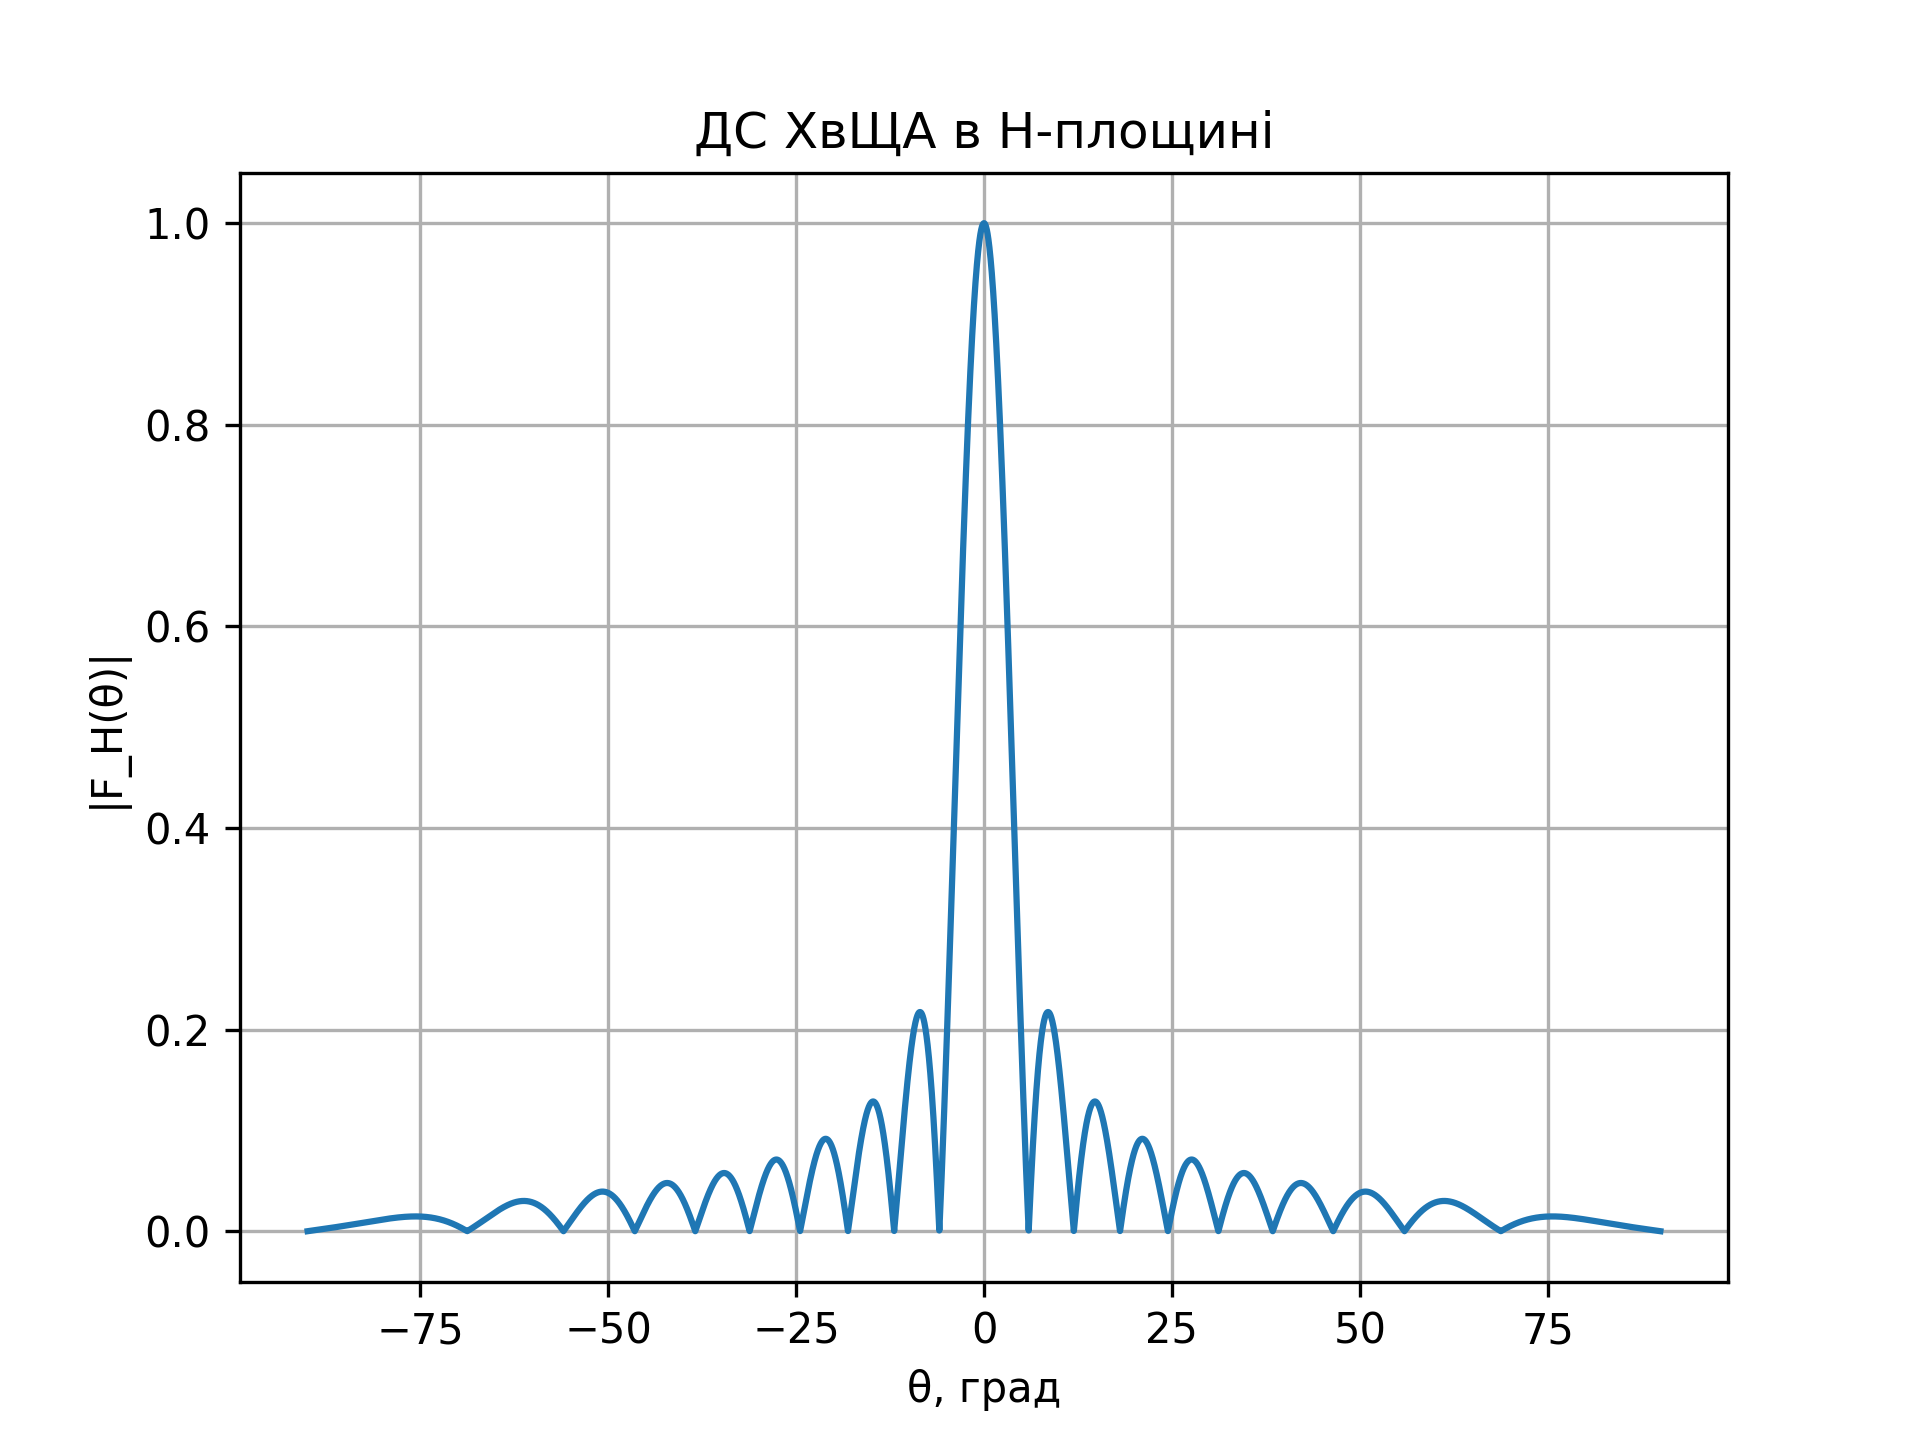
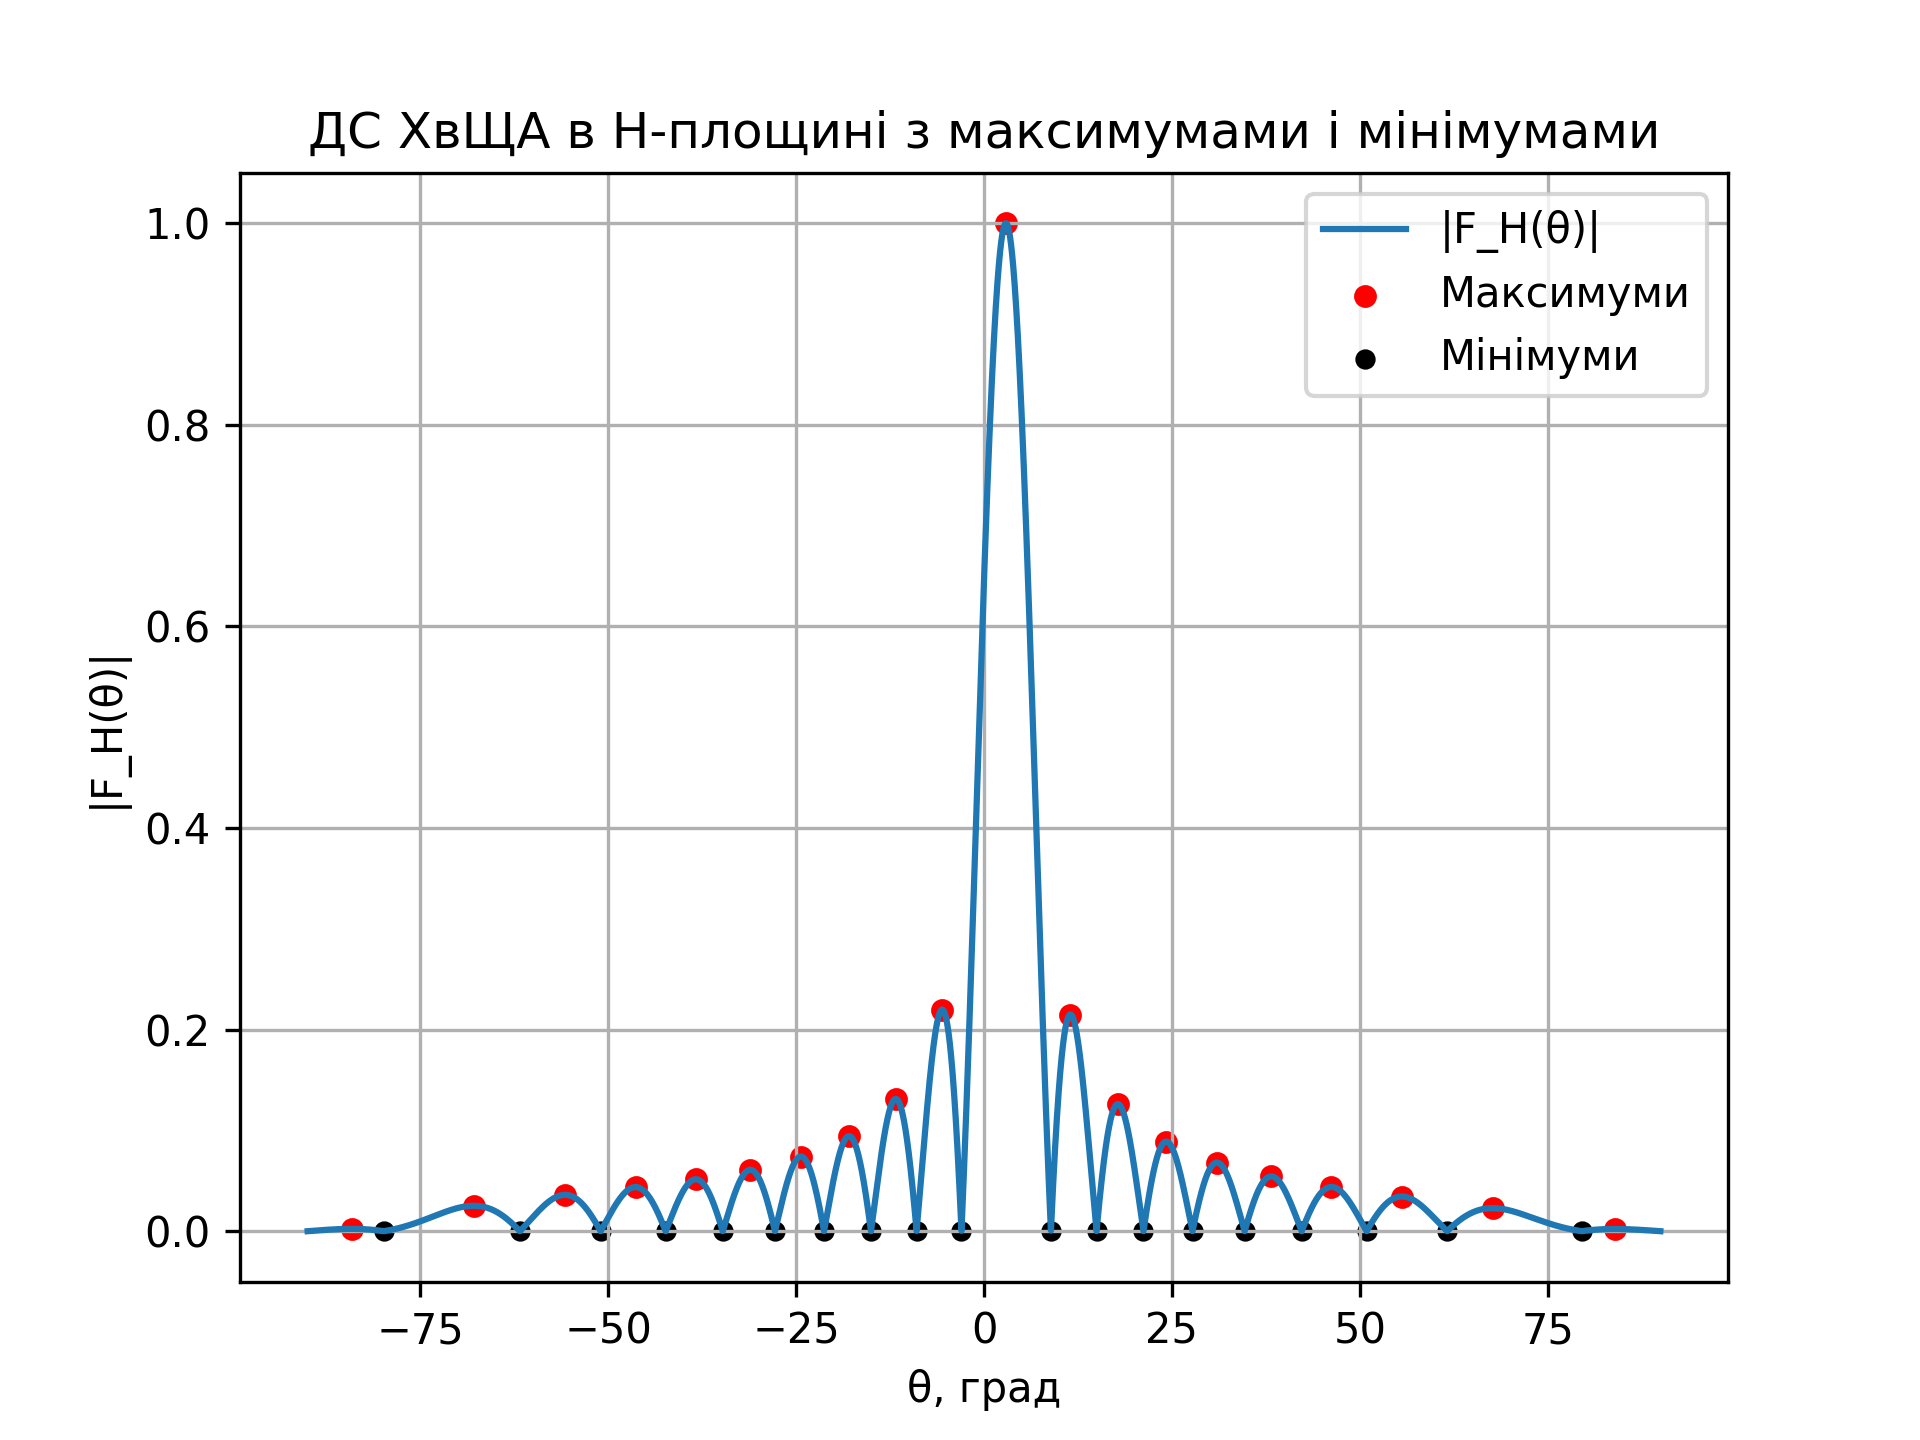
fix

diff --git a/Hv_antenna/Hv_antenna.py b/Hv_antenna/Hv_antenna.py
@@ -11,9 +11,9 @@ def element_pattern_H(theta):
     return F
 
 
-def array_factor_H(N, d, theta, lam):
+def array_factor_H(N, d, theta, lam, lambda_hv, nu):
     k = 2 * np.pi / lam
-    psi = k * d * np.sin(theta)
+    psi = k * d * np.sin(theta) - 2 * np.pi * d / lambda_hv + nu * np.pi
     den = np.sin(psi / 2)
     F = np.ones_like(theta, float)
     mask = np.abs(den) > 1e-6
@@ -57,6 +57,7 @@ def analyse_pattern(theta_deg, F_norm):
 
     HPBW = theta_right - theta_left
 
+    # поиск локальных максимумов для SLL
     loc_max = []
     for i in range(1, len(F_norm) - 1):
         if F_norm[i] > F_norm[i - 1] and F_norm[i] >= F_norm[i + 1]:
@@ -72,41 +73,74 @@ def analyse_pattern(theta_deg, F_norm):
     return HPBW, SLL_dB
 
 
+def find_local_extrema(F, theta_deg):
+    maxima = []
+    minima = []
+    for i in range(1, len(F) - 1):
+        if F[i] > F[i - 1] and F[i] >= F[i + 1]:
+            maxima.append((theta_deg[i], F[i]))
+        if F[i] < F[i - 1] and F[i] <= F[i + 1]:
+            minima.append((theta_deg[i], F[i]))
+    return maxima, minima
+
+
 def main():
     os.makedirs("figures", exist_ok=True)
 
-    lam = 2.9e-2
+    lam = 2.9e-2          # λ = 2.9 см
+    a = 23e-3             # широка стінка МЕК-100
+    lambda_c = 2 * a
+    lambda_hv = lam / np.sqrt(1 - (lam / lambda_c) ** 2)
+
     N = 14
     d = 2.0e-2
+    nu = 1
 
     theta_deg = np.linspace(-90, 90, 20001)
     theta = np.deg2rad(theta_deg)
 
     F1H = element_pattern_H(theta)
-    FHC = array_factor_H(N, d, theta, lam)
+    FHC = array_factor_H(N, d, theta, lam, lambda_hv, nu)
     F_H = F1H * FHC
     F_H = F_H / np.max(np.abs(F_H))
-
     F_abs = np.abs(F_H)
+
     HPBW_H, SLL_H_dB = analyse_pattern(theta_deg, F_abs)
     theta_max = theta_deg[np.argmax(F_abs)]
+
+    maxima, minima = find_local_extrema(F_abs, theta_deg)
 
     print("ХвЩА: поздовжні щілини, шаховий порядок")
     print(f"N = {N}, d = {d*100:.1f} см, λ = {lam*100:.1f} см")
     print(f"Максимум ДС по H при θ ≈ {theta_max:.2f}°")
     print(f"Ширина головної пелюстки (0.707): HPBW ≈ {HPBW_H:.2f}°")
-    print(f"Рівень бокових пелюсток: SLL ≈ {SLL_H_dB:.1f} dB")
+    print(f"Рівень бокових пелюсток (макс. з бічних): SLL ≈ {SLL_H_dB:.1f} dB")
+
+    print("\nМаксимуми в площині H (включно з головним):")
+    for th, val in maxima[:15]:
+        print(f"θ ≈ {th:8.3f} град, |F_H| ≈ {val:.4f}")
+
+    print("\nМінімуми в площині H:")
+    for th, val in minima[:15]:
+        print(f"θ ≈ {th:8.3f} град, |F_H| ≈ {val:.4f}")
+
+    max_thetas = [m[0] for m in maxima]
+    max_vals = [m[1] for m in maxima]
+    min_thetas = [m[0] for m in minima]
+    min_vals = [m[1] for m in minima]
 
     plt.figure()
-    plt.plot(theta_deg, F_abs)
+    plt.plot(theta_deg, F_abs, label="|F_H(θ)|")
+    plt.scatter(max_thetas, max_vals, c="red", s=20, label="Максимуми")
+    plt.scatter(min_thetas, min_vals, c="black", s=15, label="Мінімуми")
     plt.grid(True)
     plt.xlabel("θ, град")
     plt.ylabel("|F_H(θ)|")
-    plt.title("ДС ХвЩА в H-площині")
+    plt.title("ДС ХвЩА в H-площині з максимумами і мінімумами")
+    plt.legend()
     plt.savefig("figures/DS_H.png", dpi=300)
 
     F_E = np.ones_like(theta)
-
     plt.figure()
     plt.plot(theta_deg, F_E)
     plt.grid(True)
